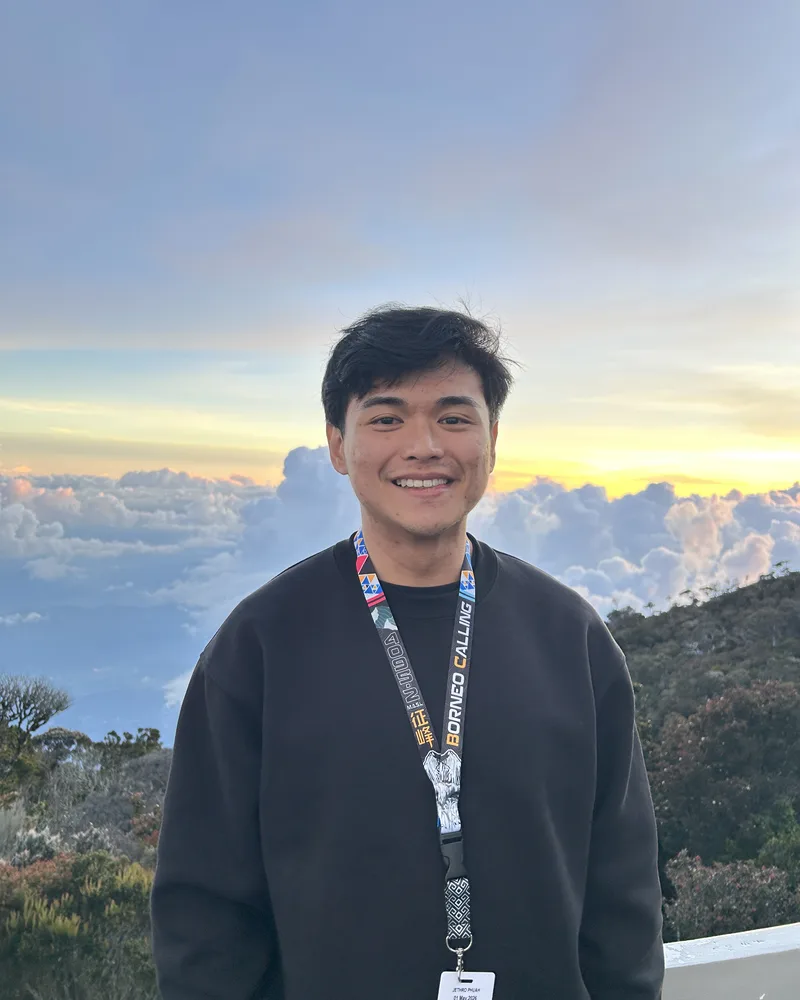
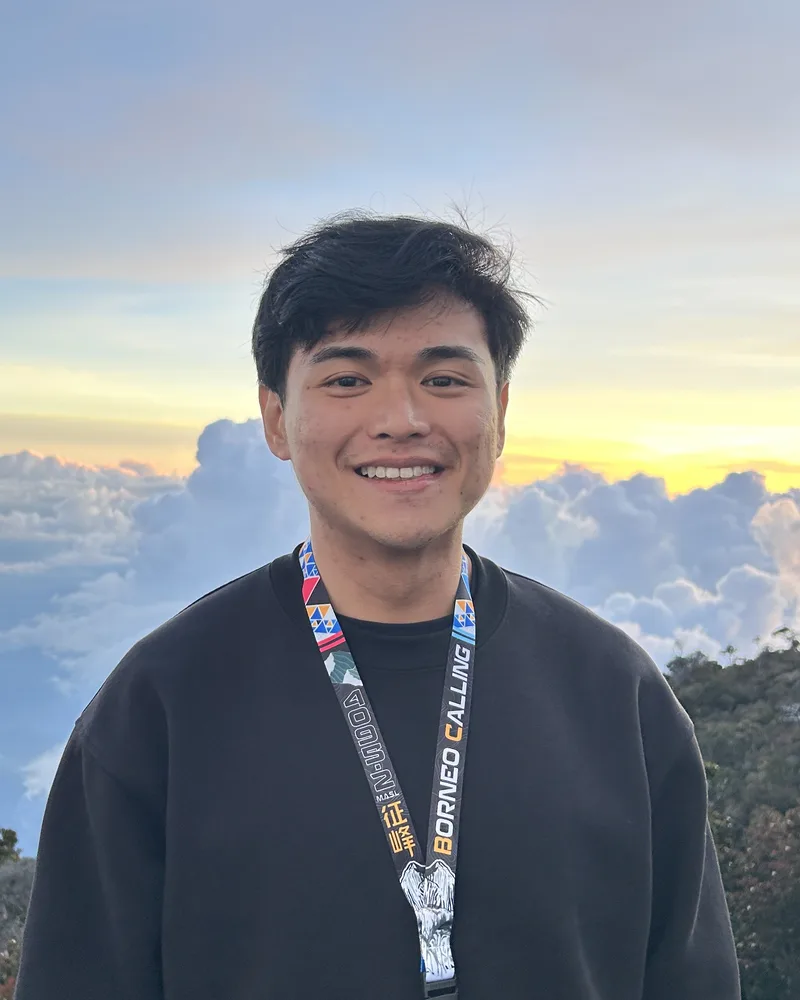
Fix portrait height and crop tighter
Claude-Session: https://claude.ai/code/session_01RMYGGA2ckaB1xfXDtSZkA9

diff --git a/styles.css b/styles.css
@@ -169,7 +169,7 @@ section.block { padding-block: clamp(56px, 8vw, 104px); border-top: 1px solid va
 .about-text p:first-child { font-size: var(--step-1); line-height: 1.5; color: var(--ink); }
 .about-text p { color: var(--ink-2); }
 .portrait { border-radius: var(--radius); overflow: hidden; background: var(--surface); }
-.portrait img { width: 100%; aspect-ratio: 4/5; object-fit: cover; filter: grayscale(0.15) contrast(1.02); }
+.portrait img { width: 100%; height: auto; aspect-ratio: 4/5; object-fit: cover; object-position: center 30%; filter: grayscale(0.15) contrast(1.02); }
 .facts { margin: 16px 0 0; display: grid; gap: 0; font-size: var(--step--1); }
 .facts div { display: flex; justify-content: space-between; gap: 12px; padding: 8px 0; border-bottom: 1px dashed var(--line); }
 .facts dt { font-family: var(--f-mono); color: var(--ink-2); }

diff --git a/index.html b/index.html
@@ -96,7 +96,7 @@
             </div>
           </div>
           <aside class="about-side">
-            <div class="portrait"><img src="assets/img/portrait.webp?v=2" alt="Portrait of Jethro" width="800" height="1000" loading="lazy"></div>
+            <div class="portrait"><img src="assets/img/portrait.webp?v=3" alt="Portrait of Jethro" width="800" height="1000" loading="lazy"></div>
             <dl class="facts">
               <div><dt>based in</dt><dd>Singapore</dd></div>
               <div><dt>now</dt><dd>Senior SWE, DSTA</dd></div>
